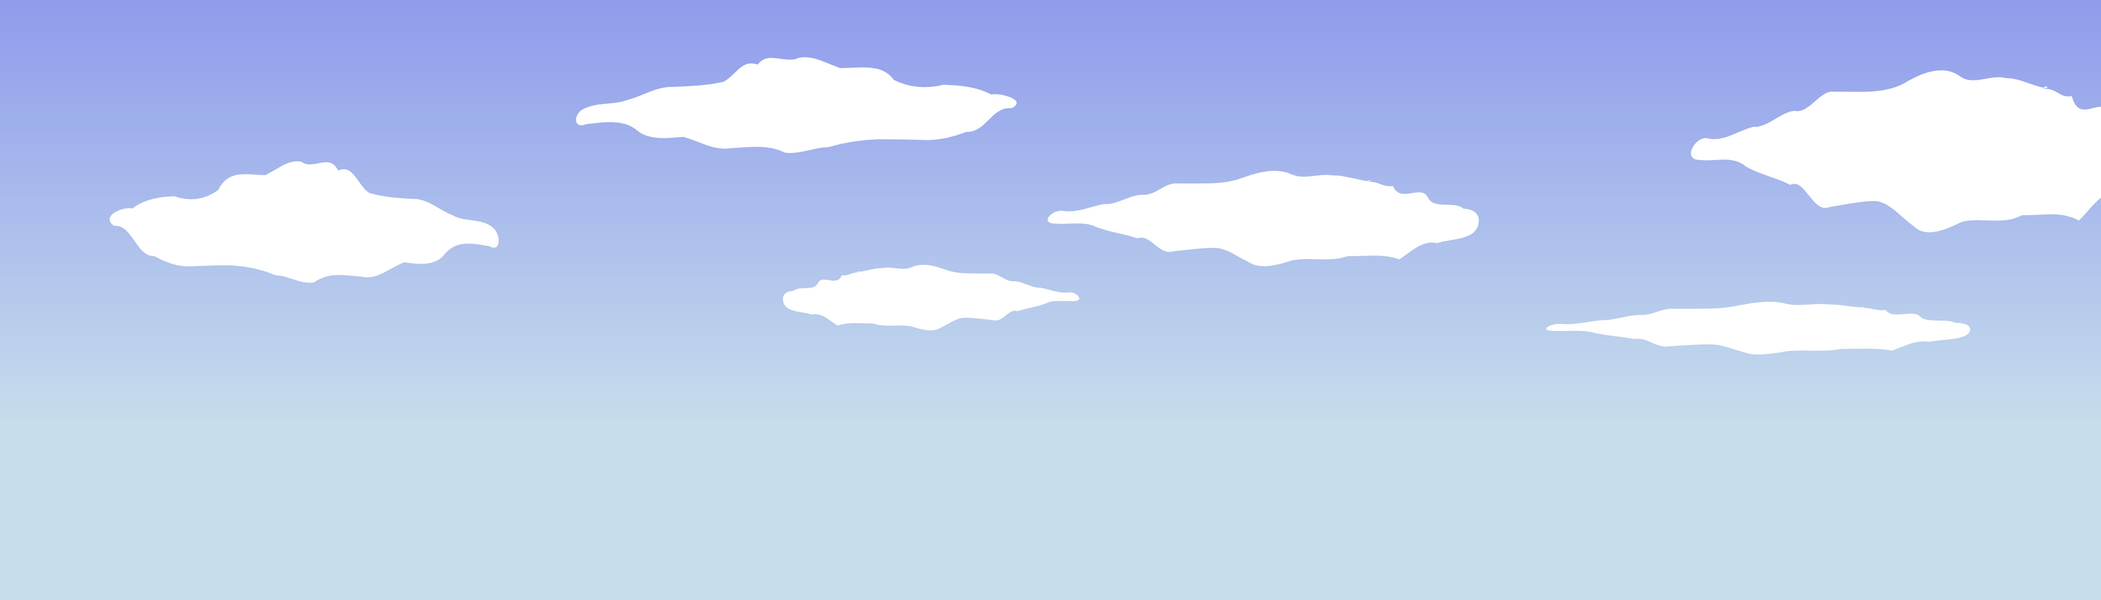
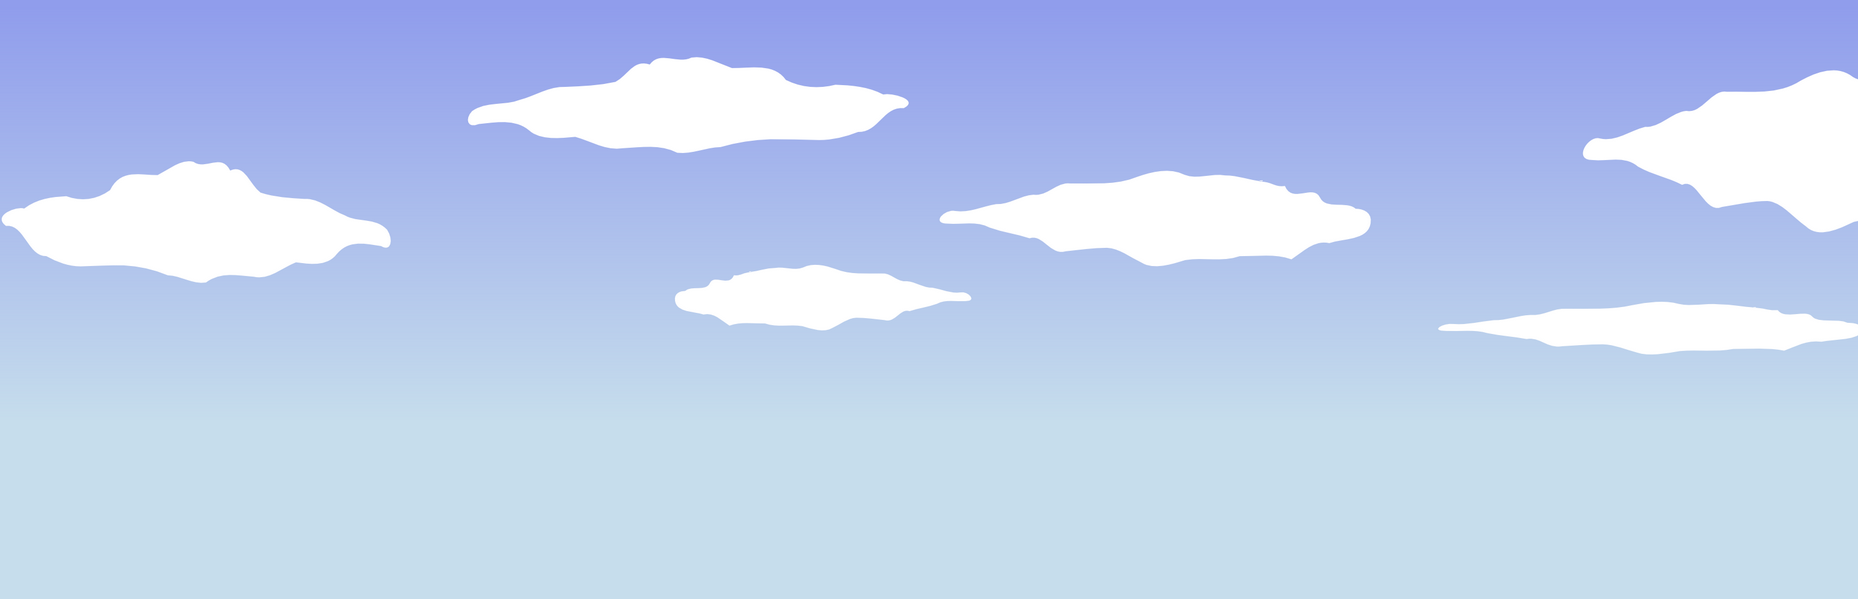
HAHAHHAHHAHAHAHHAHAHAHHAHHHH scroll

diff --git a/jeu/zombie/src/ZombieGame.cpp b/jeu/zombie/src/ZombieGame.cpp
@@ -9,7 +9,7 @@ ZombieGame::ZombieGame()
 	: Game(SCREEN_W, SCREEN_H, "ZombieGame") {
 	
 	loadRessources();
-	
+	offset=0;
 }
 
 ZombieGame::~ZombieGame() {
@@ -17,20 +17,23 @@ ZombieGame::~ZombieGame() {
 }
 
 void ZombieGame::loadRessources() {
-	sprzombie = new sf::Image();
-	if (!sprzombie->LoadFromFile("images/zombie.png"))
+	imgzombie = new sf::Image();
+	if (!imgzombie->LoadFromFile("images/zombie.png"))
+		std::cout << "ERREUR: chargement de l'image";
+		
+	sprzombie = new AnimatedSprite(imgzombie, 5, 5, 5, 50, 88);
+	AddSprite(sprzombie);
+	
+	imgfond = new sf::Image();
+	if (!imgfond->LoadFromFile("images/fond.png"))
 		std::cout << "ERREUR: chargement de l'image";
 	
-	sprfond = new sf::Image();
-	if (!sprzombie->LoadFromFile("images/fong.png"))
-		std::cout << "ERREUR: chargement de l'image";
-	
-	zombie = new AnimatedSprite(sprzombie, 5, 5, 5, 50, 88);
-	AddSprite(zombie);
+	sprfond = new sf::Sprite(*imgfond);
+	sprfond->Move(0, 0);
 }
 
 void ZombieGame::initGame() {
-
+	window->SetView(sf::View(sf::FloatRect(offset, 0, offset+800, offset+600)));
 }
 
 void ZombieGame::Run() {
@@ -57,18 +60,20 @@ void ZombieGame::Run() {
 		
 		if(isGameOn) {
 		
-			zombie->Animate();
+			sprzombie->Animate();
 		
 			// Update all sprites :
 			for(int i=0; i<sprites.size(); i++) {
 				sprites[i]->Update();
 			}
 		}
+		
+		window->SetView(sf::View(sf::FloatRect(offset, 0, offset+800, 600)));
 
 		// Clear screen
 		window->Clear(sf::Color(255, 255, 255));
 		
-		window->Draw(*(sprfond));
+		window->Draw(*sprfond);
 		
 		// Draw all the objects on the window
 		for(int i=0; i<sprites.size(); i++) {
@@ -77,6 +82,8 @@ void ZombieGame::Run() {
 		
 		// Update the window
 		window->Display();
+		
+		offset++;
 	}
 }
 

diff --git a/jeu/zombie/include/ZombieGame.h b/jeu/zombie/include/ZombieGame.h
@@ -32,9 +32,11 @@ class ZombieGame : public Game {
         
         // =================================== Attributes
         Interface* interface;
-        sf::Image* sprzombie;
-        AnimatedSprite* zombie;
-        sf::Image* sprFond;
+        sf::Image* imgzombie;
+        AnimatedSprite* sprzombie;
+        sf::Image* imgfond;
+        sf::Sprite* sprfond;
+        int offset;
 };
 
 #endif
